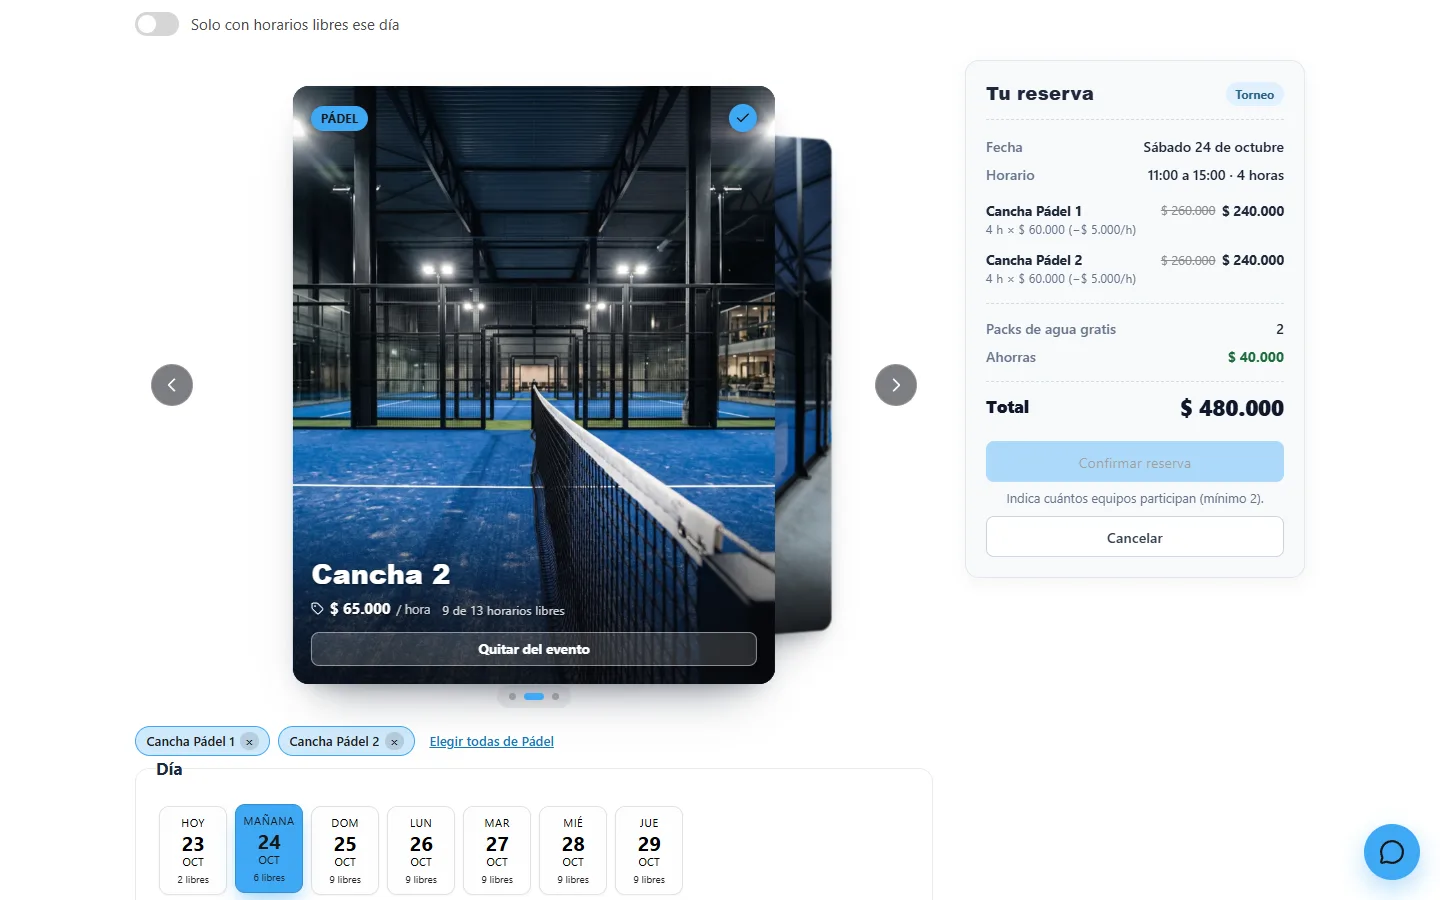
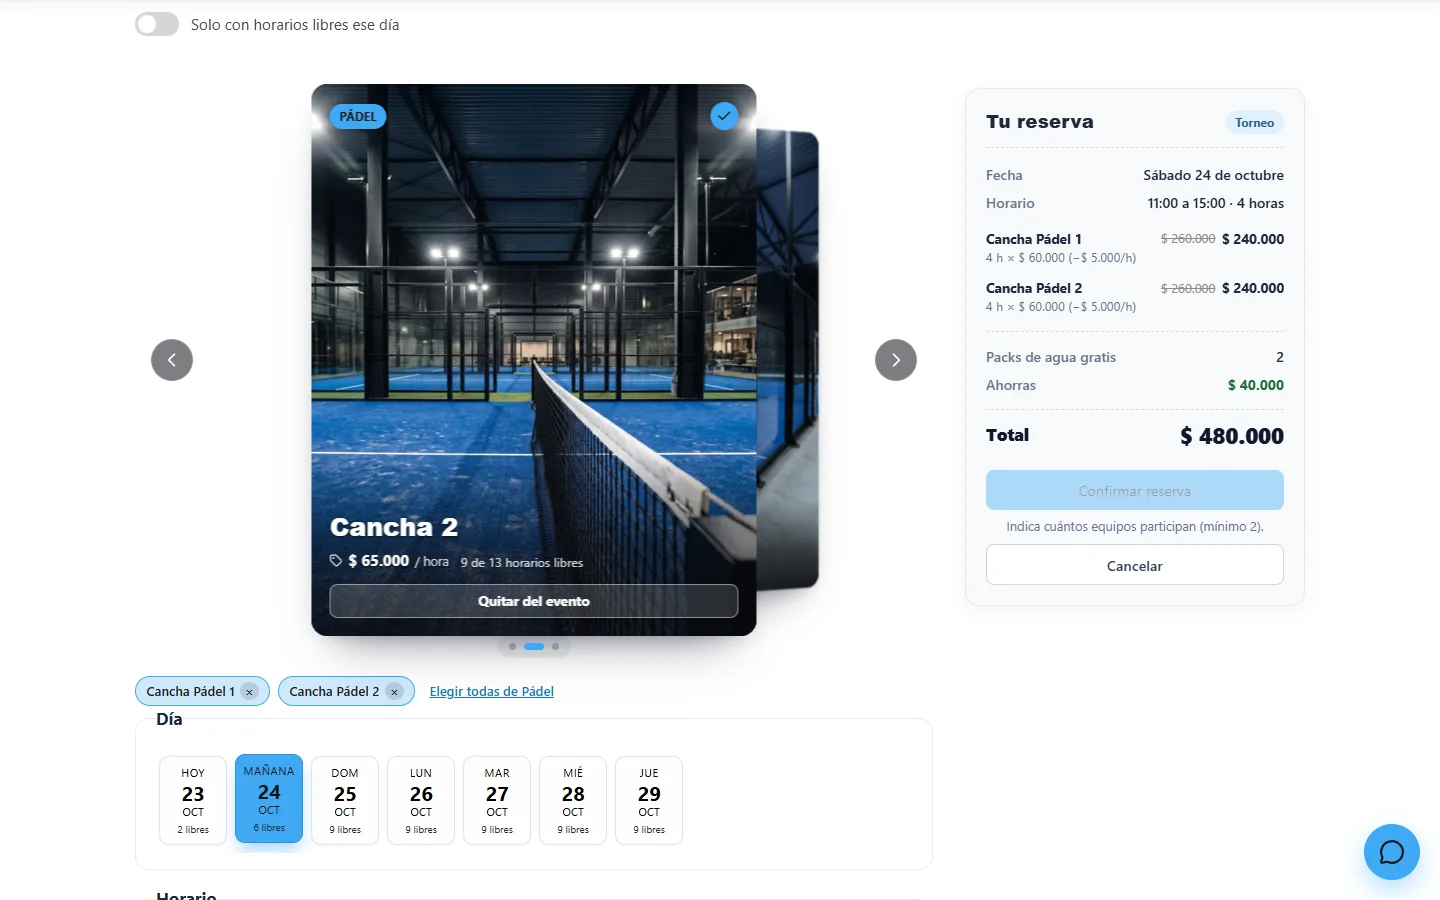
docs: README y capturas de la página de reserva

diff --git a/README.md b/README.md
@@ -10,7 +10,7 @@ con un **asistente conversacional** que también reserva y cancela.
 ![Foundation](https://img.shields.io/badge/Foundation-6.8-1779BA)
 ![GSAP](https://img.shields.io/badge/GSAP-3.13-88CE02)
 ![Gemini](https://img.shields.io/badge/Gemini-function%20calling-8E75B2?logo=googlegemini&logoColor=white)
-![Tests](https://img.shields.io/badge/tests-112%20en%20verde-2EA44F)
+![Tests](https://img.shields.io/badge/tests-121%20en%20verde-2EA44F)
 
 ![Hero de voley playa con el video de fondo y el botón del asistente](docs/capturas/inicio.webp)
 
@@ -58,24 +58,26 @@ Surcolombiana, sexto semestre). El enunciado fija estas restricciones:
 Cada deporte tiene su sección a pantalla completa con un video de fondo que
 avanza con el scroll: la sección queda fija (*pinning* de ScrollTrigger) y el
 `currentTime` del video sigue a la rueda del mouse. Cada una tiene su color de
-acento, que después usan la vista de canchas y el asistente.
+acento, que después usan la página de reserva y el asistente.
 
 | Voley playa | Pádel | Fútbol |
 |:---:|:---:|:---:|
 | <img src="docs/capturas/inicio.webp" alt="Hero de voley playa" width="300"> | <img src="docs/capturas/hero-padel.webp" alt="Hero de pádel" width="300"> | <img src="docs/capturas/hero-futbol.webp" alt="Hero de fútbol" width="300"> |
 
-### Vista de canchas: la ventana de reserva
+### Página de reserva
 
-Todo se reserva desde una sola vista a pantalla completa. Se abre desde
-"Ver canchas de…" en cada hero o desde "Canchas" en el menú. Tiene:
+Todo se reserva desde una página propia del sitio (`/reservar/<deporte>`). Se
+abre desde "Ver canchas de…" en cada hero o desde "Canchas" en el menú. Tiene:
 
 - **Pestañas por deporte** y el filtro *Solo con horarios libres ese día*.
 - **Carrusel 3D** con las fotos de las canchas en grande, el precio y cuántos
-  horarios libres tiene cada una el día elegido.
+  horarios libres tiene cada una el día elegido. En fútbol la foto muestra
+  también las características y la descripción.
 - **Visor en grande** de la foto, con las características, la descripción y
   su propio botón para elegir horario (o agregar la cancha al evento).
-- **URL compartible:** la vista cambia el hash (`#canchas-padel`), así que un
-  enlace abre directo un deporte y el botón "atrás" del navegador la cierra.
+- **URL compartible:** la página tiene su dirección (`/reservar/padel`, y
+  `/reservar/padel?modo=torneo` en modo torneo), se puede abrir en otra pestaña
+  y el botón "atrás" vuelve al inicio donde estabas.
 
 ![Vista de canchas de pádel con el carrusel 3D y el voucher](docs/capturas/vista-canchas.webp)
 
@@ -97,7 +99,7 @@ puede descargar para mostrarlo al llegar.
 
 ### Torneos y cumpleaños
 
-La misma vista tiene los modos **Cancha · Torneo · Cumpleaños**. En los de
+La misma página tiene los modos **Cancha · Torneo · Cumpleaños**. En los de
 evento:
 
 - se agregan **varias canchas**, incluso de distintos deportes;
@@ -127,9 +129,9 @@ footer y el asistente siempre coinciden.
 ### Asistente conversacional
 
 Un botón flotante abre el **Asistente Sportify**, disponible en todas las
-vistas. Responde sobre horarios libres, precios, servicios, pagos, política de
-cancelación y ubicación. Cuando la respuesta lo amerita, ofrece un botón para
-abrir las canchas, la reserva de eventos o la ubicación.
+páginas del sitio. Responde sobre horarios libres, precios, servicios, pagos,
+política de cancelación y ubicación. Cuando la respuesta lo amerita, ofrece un
+botón para abrir las canchas, la reserva de eventos o la ubicación.
 
 | Consulta de disponibilidad | Reserva propuesta |
 |:---:|:---:|
@@ -307,9 +309,9 @@ scripts/
 └── probar-chat.mjs      Casos de prueba de /api/chat (local o producción)
 src/
 ├── components/
-│   ├── layout/          Navbar y Footer
+│   ├── layout/          Navbar, Footer y PaginaInicio
 │   ├── hero/            DeporteHero: heros por deporte con video y pinning
-│   ├── canchas/         VistaCanchas: la ventana de reserva a pantalla completa
+│   ├── canchas/         VistaCanchas: la página de reserva (/reservar/<deporte>)
 │   ├── reservas/        useReserva, formulario, voucher, selector de modo y confirmación con QR
 │   ├── eventos/         EventoCTA: sección de eventos y torneos
 │   ├── ubicacion/       Ubicacion: dirección, teléfono, horario y mapa
@@ -320,7 +322,7 @@ src/
 │                        useAccionesChat y useDeporteActivo
 ├── context/
 │   ├── ReservasContext.jsx      Estado de reservas (RESERVAR, RESERVAR_EVENTO, CANCELAR)
-│   └── VistaCanchasContext.jsx  Qué vista está abierta, sincronizada con el hash
+│   └── VistaCanchasContext.jsx  Navegación entre el inicio y la página de reserva, sincronizada con la URL
 ├── data/
 │   ├── canchas.json     Semilla: horas, ocupación por día y catálogo de cada cancha
 │   ├── negocio.json     Datos del local: contacto, mapa, pagos, cancelación, servicios
@@ -335,13 +337,14 @@ src/
 │   ├── codigoReserva.js Código de reserva y texto del QR
 │   ├── fechas.js        Etiquetas de fecha, horas a. m./p. m. y horas pasadas
 │   ├── canchas.js       Agrupación por deporte, imágenes y estilo de acento
+│   ├── rutas.js         Construcción y lectura de las rutas del sitio (/ y /reservar/<deporte>)
 │   └── negocio.js       Teléfono del local y horario a partir de las franjas
-├── App.jsx              Providers + Navbar + heros + eventos + ubicación + Footer + asistente
+├── App.jsx              Providers + Navbar + página activa (inicio o reserva) + Footer + asistente
 └── main.jsx             Punto de entrada: CSS de Foundation, estilos globales y montaje de <App />
 index.html               Página base; carga src/main.jsx como módulo
 vite.config.mjs          Plugin de React, polling opcional del watcher y configuración de Vitest
 eslint.config.mjs        ESLint 10 en configuración plana
-vercel.json              Preset de Vite e includeFiles de la función /api/chat
+vercel.json              Preset de Vite, rewrite de /reservar/* e includeFiles de la función /api/chat
 ```
 
 ---
@@ -389,7 +392,7 @@ probarlo en local:
 ## Pruebas
 
 ```bash
-npm test                          # 112 tests en 10 archivos (Vitest)
+npm test                          # 121 tests en 11 archivos (Vitest)
 npm run lint                      # ESLint sobre src, api y scripts
 npm run build                     # build de producción en /dist
 ```
@@ -399,10 +402,10 @@ desarrollo. `npm run test:watch` deja Vitest observando los cambios.
 
 Las pruebas unitarias cubren la lógica pura de `src/lib/`: precios y
 descuentos, selección de horas, validación de nombre, teléfono y reservas
-propuestas, fechas, código y texto del QR, datos del negocio, plazo y búsqueda
-de cancelaciones, el contexto, el historial y los textos fijos del chat, y el
-respaldo de modelo (orden, tiempos por intento y respuesta final).
-`src/App.test.jsx` es un *smoke test* que monta la aplicación completa.
+propuestas, fechas, código y texto del QR, datos del negocio, rutas del sitio,
+plazo y búsqueda de cancelaciones, el contexto, el historial y los textos fijos
+del chat, y el respaldo de modelo (orden, tiempos por intento y respuesta final).
+`src/App.test.jsx` monta la aplicación en la página de inicio y en `/reservar/padel`.
 
 El asistente tiene además un script con 10 casos contra la función real:
 disponibilidad, "resérvalo" con una y con varias franjas, datos válidos e
@@ -423,10 +426,11 @@ El sitio está en Vercel y **cada push a `main` despliega a producción**.
 - **Variables de entorno:** `GEMINI_API_KEY` (sensible) y `GEMINI_MODEL`, en
   los entornos *Production* y *Preview*. Aplican desde el siguiente
   despliegue.
-- **`vercel.json`:** fija el preset de Vite (`"framework": "vite"`) y agrega
-  `@google/genai/dist/node/index.cjs` a la función con `includeFiles`. La
-  función se compila a CommonJS y el rastreo de archivos de Vercel solo
-  incluía la versión ESM del paquete.
+- **`vercel.json`:** fija el preset de Vite (`"framework": "vite"`), redirige
+  `/reservar/:path*` a `/index.html` para que las rutas de reserva funcionen al
+  recargar o compartir, y agrega `@google/genai/dist/node/index.cjs` a la
+  función con `includeFiles`. La función se compila a CommonJS y el rastreo de
+  archivos de Vercel solo incluía la versión ESM del paquete.
 - **`.vercelignore`:** es una lista blanca (`src`, `public`, `api`,
   `index.html`, `vite.config.mjs`, `vercel.json` y los `package*.json`), así
   que los videos fuente y la documentación no se suben al build.
@@ -457,7 +461,7 @@ El sitio está en Vercel y **cada push a `main` despliega a producción**.
 |---|---|
 | 1. Estructura base con Foundation (navbar, footer, grid) | ✅ |
 | 2. Heros por deporte con GSAP y ScrollTrigger | ✅ |
-| 3. Catálogo de canchas: vista a pantalla completa con carrusel 3D | ✅ |
+| 3. Catálogo de canchas: página de reserva con carrusel 3D | ✅ |
 | 4. Sistema de reservas: 1 a 3 horas, descuento, validación de choques | ✅ |
 | 5. Modo evento: torneos y cumpleaños, todo o nada | ✅ |
 | 6. Asistente: función `/api/chat`, widget y reservas o cancelaciones desde el chat | ✅ |
